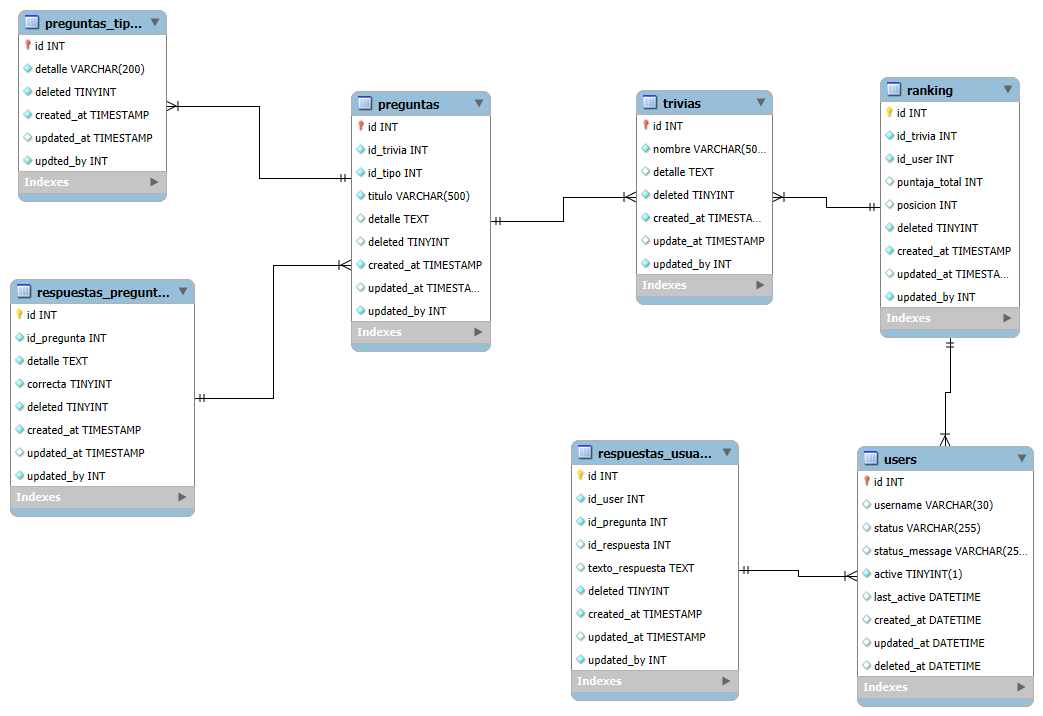
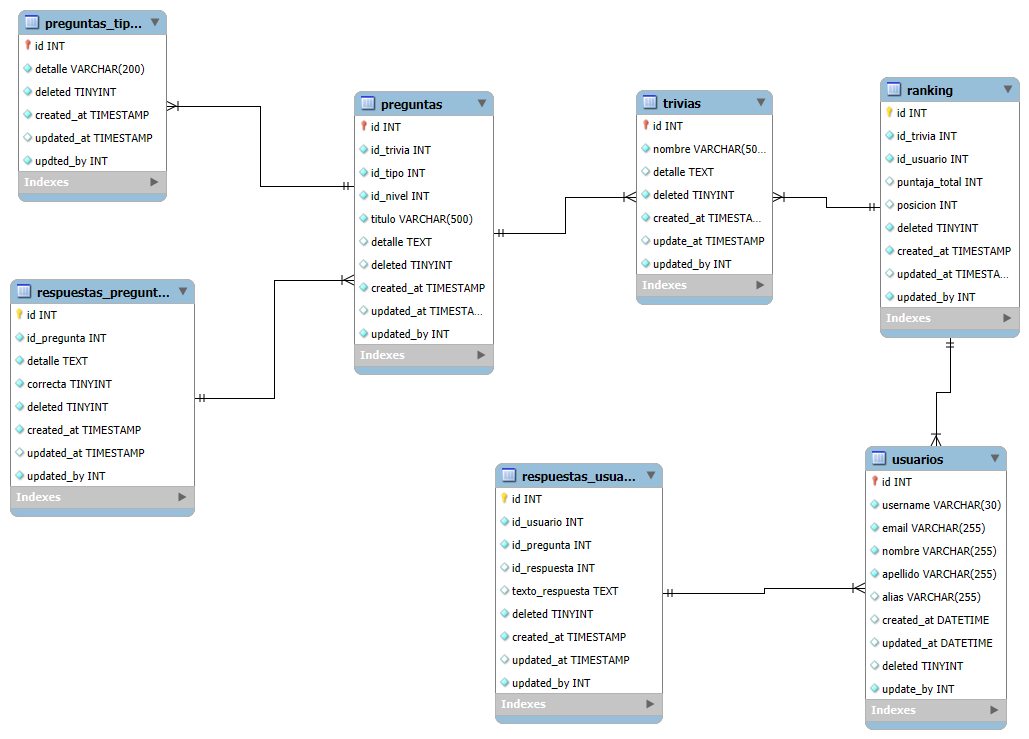
chore: actualización de documentos y correcciones

diff --git a/app/Models/Usuarios.php b/app/Models/Usuarios.php
@@ -6,7 +6,7 @@ use CodeIgniter\Model;
 
 class Usuarios extends Model
 {
-    protected $table      = 'users';
+    protected $table      = 'usuarios';
     protected $primaryKey = 'id';
 
     protected $useAutoIncrement = true;
@@ -14,14 +14,17 @@ class Usuarios extends Model
     protected $returnType     = 'array';
     protected $useSoftDeletes = true;
 
-    protected $allowedFields = ['username'];
+    protected $allowedFields = ['nombre', 'email', 'alias', 'updated_by'];
 
     protected $useTimestamps = true;
     protected $createdField  = 'created_at';
     protected $updatedField  = 'updated_at';
     protected $deletedField  = 'deleted';
 
-    protected $validationRules    = [];
+    protected $validationRules    = [
+        'nombre' => 'required|min_length[3]|max_length[100]',
+        'email'  => 'required|valid_email|is_unique[usuarios.email,id,{id}]',
+    ];
     protected $validationMessages = [];
     protected $skipValidation     = false;
 }

diff --git a/app/Controllers/Preguntas.php b/app/Controllers/Preguntas.php
@@ -44,6 +44,11 @@ class Preguntas extends ResourceController {
             }
             $data->updated_by = 1; // TODO: Cambiar cuando se implemente login
 
+            $trivia = model('Trivias')->find($data->id_trivia);
+            if(!$trivia){
+                return $this->failValidationErrors('No se encontró la trivia con id: '.$data->id_trivia);
+            }
+
             if($preguntasModel->insert($data)){
                 return $this->respondCreated($data,'Pregunta creada correctamente');
             }

diff --git a/README.md b/README.md
@@ -11,7 +11,7 @@ una vez creada la imagen, se puede levantar el proyecto con el comando
 
 `docker compose up -d`
 
-una vez levantado el proyecto, será necesario ingresar al contenedor, para ejecutar completar la instalación de codeigniter con el comando
+una vez levantado el proyecto, será necesario ingresar al contenedor con el siguiente comando `docker compose exec web bash`, para completar la instalación de codeigniter con el comando
 
 `composer update`
 
@@ -19,4 +19,9 @@ En el mismo repositorio se encuentra el script de creación de la base de datos 
 
 
 ## Modelo de datos
-El modelo de datos propuesto es el siguiente
+El modelo de datos propuesto e encuentra en el archivo `db_model.mwb` para ser visto en MySQL Workbench, pero también está disponible como imagen en el archivo `database.png`
+
+De igual forma el script para crear las tablas está en el archvo `db.sql`
+
+## Rutas de prueba
+Para facilitar las pruebas en el repositorio se encuentra la colección de postman utilizada durante el desarrollo en el archivo `Talana.postman_collection.json` el cual puede ser importado directamente y debiera tener cargadas las rutas.
